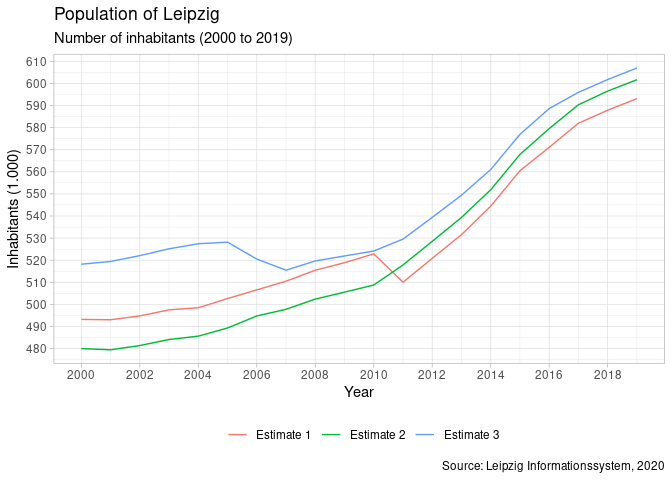
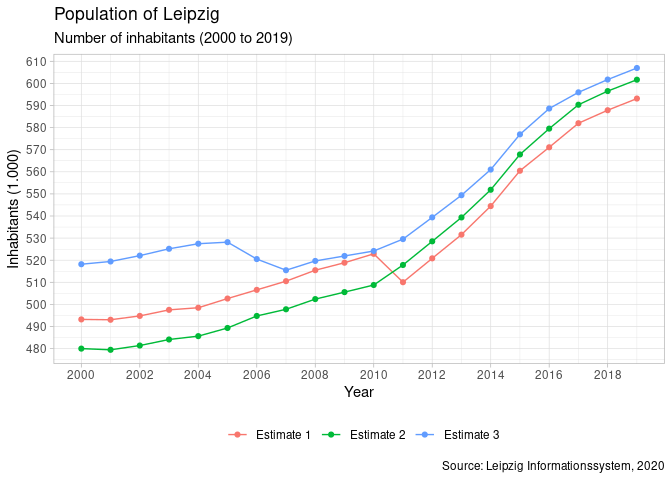
UPDATE readme

diff --git a/README.md b/README.md
@@ -23,14 +23,6 @@ remotes::install_github('nrkoehler/lisr')
 ``` r
 library(lisr)
 library(tidyverse)
-#> ── Attaching packages ────────────────────────────────────────────────────── tidyverse 1.3.0 ──
-#> ✓ ggplot2 3.3.2     ✓ purrr   0.3.4
-#> ✓ tibble  3.0.4     ✓ dplyr   1.0.2
-#> ✓ tidyr   1.1.2     ✓ stringr 1.4.0
-#> ✓ readr   1.4.0     ✓ forcats 0.5.0
-#> ── Conflicts ───────────────────────────────────────────────────────── tidyverse_conflicts() ──
-#> x dplyr::filter() masks stats::filter()
-#> x dplyr::lag()    masks stats::lag()
 
 df.POP <- get_lis_pop(rubrik_nr = 1) # inhabitants
 ```
@@ -91,8 +83,10 @@ df.POP_sub <- df.POP_sub %>%
 
 ``` r
 ggplot(df.POP_sub, aes(x = Year, 
-                       y = Inhabitants/1000)) +
-  geom_line(aes(colour = KENNZIFFER)) +
+                       y = Inhabitants/1000,
+                       colour = KENNZIFFER)) +
+  geom_line() +
+  geom_point() +
   scale_x_continuous(breaks = seq(2000, 2019, 2)) +
   scale_y_continuous(breaks = seq(480, 650, 10)) +
   theme_light() +
@@ -161,15 +155,17 @@ df.HOUSING_sub <- df.HOUSING_sub %>%
 
 ``` r
 ggplot(df.HOUSING_sub, aes(x = Year, 
-                       y = Rent)) +
-  geom_line(aes(colour = KENNZIFFER)) +
+                       y = Rent,
+                       colour = KENNZIFFER)) +
+  geom_line() +
+  geom_point() +
   scale_x_continuous(breaks = seq(2000, 2019, 2)) +
    scale_y_continuous(breaks = seq(4, 9, 1)) +
   theme_light() +
   theme(legend.position = 'bottom') +
   labs(colour = NULL,
        y = '€/m²',
-       title = 'Median rent in €/m²',
+       title = 'Median rent in Leipzig',
        subtitle = '2000 to 2019',
        caption = 'Source: Leipzig Informationssystem, 2020')
 ```
